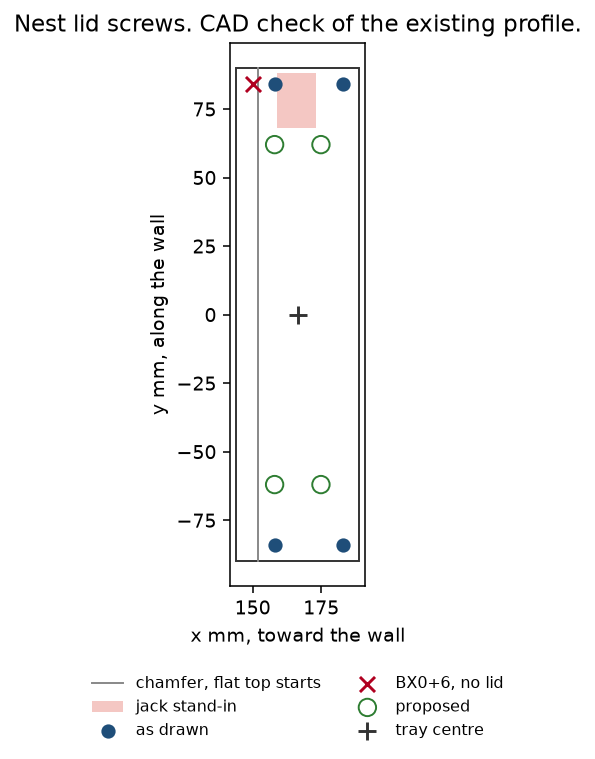
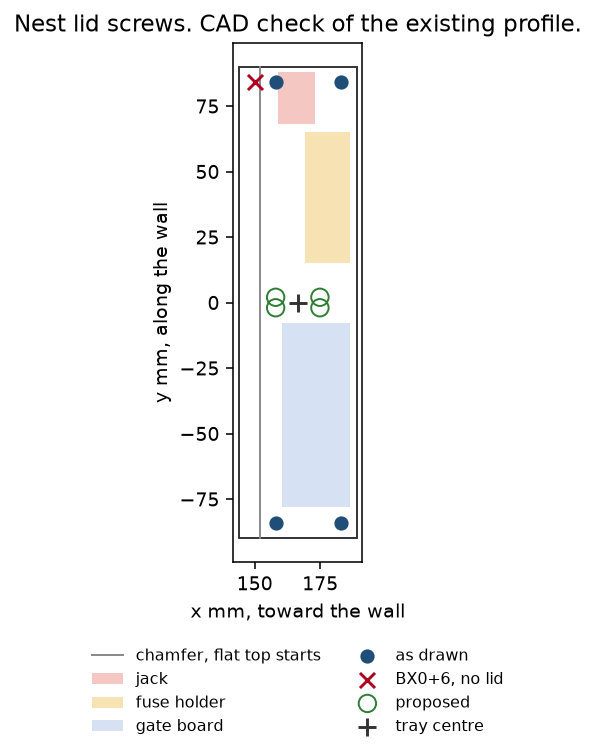
Move the proposed lid posts clear of every reserved nest box.
y 62 cleared the jack and entered the fuse holder and the gate board. The posts now sit at y 2 and -2, still mirrored about the tray centre, with at least 2 mm to each stand-in.

Changed region(s): [[0.1513, 0.0609, 0.7866, 0.9748], [0.484, 0.0305, 0.5748, 0.0609], [0.3933, 0.0305, 0.4538, 0.0609]]

diff --git a/altaay_lab/cad/fasteners/lid_check.py b/altaay_lab/cad/fasteners/lid_check.py
@@ -74,16 +74,45 @@ def engage(length, bore):
             "meets_4_5": (not bottoms) and used + 1e-9 >= RULE, "label": "calc"}
 
 
+POST_R = 4.0          # lid post diameter 8 mm, already in rim_parts()
+GAP = 2.0              # same gap used for the jack; applied to every stand-in
+
+
+def box_of(item):
+    c = np.array(item["c"], float)
+    h = np.array(item["size"], float) / 2.0
+    return c - h, c + h
+
+
+def xy_gap(x, y, lo, hi, radius):
+    """Gap from a vertical cylinder to an axis-aligned box. Negative means it enters the box.
+    The lid posts run through the z of every stand-in, so the xy gap is the clearance."""
+    cx = min(max(x, lo[0]), hi[0])
+    cy = min(max(y, lo[1]), hi[1])
+    return float(np.hypot(x - cx, y - cy) - radius)
+
+
+def standin_gaps(posts):
+    rows = []
+    for name, item in P.STANDINS.items():
+        lo, hi = box_of(item)
+        for x, y in posts:
+            rows.append({"standin": name, "post_xy": [round(x, 2), round(y, 2)],
+                         "gap_mm": round(xy_gap(x, y, lo, hi, POST_R), 2), "label": "cad"})
+    return rows
+
+
 def main():
     lid, z_split = profile()
     cx = tray_centre()
     room = P.BX0 + 14.0
     wall = 2 * cx - room
-    # The jack stand-in already in nest_parts.STANDINS occupies y 68 to 88 on the +y end.
-    # A post of radius 4 at y 84 enters that box. y = 68 - 4 - 2 keeps a 2 mm gap.
-    jack = P.STANDINS["jack"]
-    jack_lo_y = jack["c"][1] - jack["size"][1] / 2.0
-    post_y = round(jack_lo_y - 4.0 - 2.0, 2)
+    # Fuse, gate, and jack already fill the ends. The only y that clears every
+    # stand-in on both sides, with a 2 mm gap and a 4 mm post, is a short pair
+    # about the tray centre. The gate's top is the tight edge.
+    gate = P.STANDINS["gate_board"]
+    _, gate_hi = box_of(gate)
+    post_y = round(float(-gate_hi[1] - POST_R - GAP), 2)
     posts = [(room, post_y), (room, -post_y), (wall, post_y), (wall, -post_y)]
     rejected = P.BX0 + 6.0
     rows = []
@@ -119,7 +148,9 @@ def main():
         "mirror_error_about_tray_centre_mm": round(float(worst), 2),
         "nearest_terminal_mm": round(float(term_gap), 2),
         "post_y_mm": post_y,
-        "why_y": "jack stand-in y starts at %.2f; post radius 4 mm; 2 mm gap; same number both sides so the pattern still mirrors" % jack_lo_y,
+        "why_y": "gate stand-in reaches y %.2f; post radius 4 mm; 2 mm gap; fuse and jack are farther out, so this y clears all three" % gate_hi[1],
+        "standin_gaps": standin_gaps(posts),
+        "drawn_standin_gaps": standin_gaps(list(P.LID_POSTS)),
         "engagement": {
             "M3x6_bore_5.8": engage(6.0, BORE_NOW),
             "M3x6_deeper_bore_6.3": engage(6.0, 6.3),
@@ -137,11 +168,11 @@ def main():
         },
     }
     json.dump(out, open(os.path.join(HERE, "lid_check.json"), "w"), indent=1)
-    write_fig(out, jack)
-    print(json.dumps({k: out[k] for k in ("proposed_posts_xy", "mirror_error_about_tray_centre_mm", "nearest_terminal_mm", "post_y_mm", "engagement")}, indent=1))
+    write_fig(out)
+    print(json.dumps({k: out[k] for k in ("proposed_posts_xy", "mirror_error_about_tray_centre_mm", "nearest_terminal_mm", "post_y_mm", "standin_gaps")}, indent=1))
 
 
-def write_fig(out, jack):
+def write_fig(out):
     import matplotlib
     matplotlib.use("Agg")
     import matplotlib.pyplot as plt
@@ -152,9 +183,11 @@ def write_fig(out, jack):
     ax.add_patch(plt.Rectangle((x0, y0), x1 - x0, y1 - y0, fill=False, lw=1.0, color="#333"))
     flat = out["chamfer_flat_starts_x_mm"]
     ax.plot([flat, flat], [y0, y1], color="#888", lw=1, label="chamfer, flat top starts")
-    lo = np.array(jack["c"]) - np.array(jack["size"]) / 2
-    ax.add_patch(plt.Rectangle((lo[0], lo[1]), jack["size"][0], jack["size"][1],
-                               fill=True, color="#f4c7c3", lw=0, label="jack stand-in"))
+    colors = {"jack": "#f4c7c3", "fuse_holder": "#f6e2b3", "gate_board": "#d6e2f4"}
+    for name, item in P.STANDINS.items():
+        lo, hi = box_of(item)
+        ax.add_patch(plt.Rectangle((lo[0], lo[1]), hi[0] - lo[0], hi[1] - lo[1],
+                                   fill=True, color=colors.get(name, "#ddd"), lw=0, label=name.replace("_", " "), zorder=1))
     drawn = np.array(P.LID_POSTS)
     prop = np.array(out["proposed_posts_xy"])
     ax.scatter(drawn[:, 0], drawn[:, 1], c="#1f4e79", s=40, zorder=3, label="as drawn")

diff --git a/altaay_lab/cad/fasteners/PROPOSED_EDITS.md b/altaay_lab/cad/fasteners/PROPOSED_EDITS.md
@@ -12,13 +12,15 @@ Keep the room-side x at `BX0 + 14` (158.0 mm). Lid thickness there is 2.0 mm, an
 
 Set the wall-side x to 174.9 mm, which is the mirror of 158.0 about the tray centre 166.45. Mirror error of the four posts is 0.0 mm (calc).
 
-Set y to +62 and -62, not +84. The jack stand-in already in `STANDINS` occupies y 68 to 88 and x 159 to 173. A post of radius 4 mm at y 84 and x 158 enters that box by 3.0 mm (cad). y 62 leaves about 2 mm (cad). Both sides use the same y so the pattern still mirrors.
+y is +2 and -2, not +84 and not +62. The jack, the fuse holder, and the gate board are already reserved in `STANDINS`. A post of radius 4 mm at (174.9, 62) enters the fuse holder, and the posts at y -62 enter the gate board (cad, the Codex note on this proposal). The gate board reaches y -8. With a 4 mm radius and a 2 mm gap, the post centres sit at y ±2. Every stand-in gap is then at least 2.0 mm (cad). The tight one is the gate board at (174.9, -2).
+
+Do not copy the 5.5 mm end-wall tie from `rim_parts()` onto these posts. That tie runs toward the end and would close the 2 mm gate gap. The post cylinder already in that function is the boss.
 
 Proposed `LID_POSTS`, for the nest owner to apply and then regenerate with the existing script:
 
-`LID_POSTS = [(BX0 + 14.0, 62.0), (BX0 + 14.0, -62.0), (174.9, 62.0), (174.9, -62.0)]`
+`LID_POSTS = [(BX0 + 14.0, 2.0), (BX0 + 14.0, -2.0), (174.9, 2.0), (174.9, -2.0)]`
 
-174.9 is `2 * ((BX0 + BX1) / 2) - (BX0 + 14)`. Writing it that way keeps it tied to the box constants. Nearest terminal after this move is 37.22 mm (calc).
+174.9 is `2 * ((BX0 + BX1) / 2) - (BX0 + 14)`. Writing it that way keeps it tied to the box constants. Nearest terminal centre is 23.35 mm away (calc). The terminal post radius is 4.5 mm, so the surfaces are about 14.8 mm apart (calc).
 
 ## Engagement
 

diff --git a/altaay_lab/cad/fasteners/CHECKS.md b/altaay_lab/cad/fasteners/CHECKS.md
@@ -77,7 +77,7 @@ DC2, DC3 and DC4 are the chest-dock leads `NEST_CAD.md` already removes. F027, F
 
 ## Nest lid proposal (not applied)
 
-`lid_check.py` reads the existing `box_profile`. BX0+6 has 0.0 mm of lid (cad). The room-side axes stay at x 158, where the lid is 2.0 mm thick and the button head has 3.15 mm of flat top inboard of the chamfer. The wall-side axes move to x 174.9, the mirror about the tray centre (mirror error 0.0 mm, calc). y moves from 84 to 62 so a 4 mm radius post clears the jack stand-in already in `nest_parts.py` by about 2 mm (cad). The drawn post at (158, 84) enters that stand-in by 3.0 mm. Nearest terminal after the move is 37.22 mm (calc).
+`lid_check.py` reads the existing `box_profile` and every box in `STANDINS`. BX0+6 has 0.0 mm of lid (cad). The room-side axes stay at x 158, where the lid is 2.0 mm thick and the button head has 3.15 mm of flat top inboard of the chamfer. The wall-side axes move to x 174.9, the mirror about the tray centre (mirror error 0.0 mm, calc). y is ±2, not ±62. At y 62 the wall-side post enters the fuse holder and the minus posts enter the gate board (cad). At y ±2 the gap to every stand-in is at least 2.0 mm (cad). The tight one is the gate board. The 5.5 mm end-wall tie is not part of this proposal. Nearest terminal centre is 23.35 mm (calc).
 
 A longer insert does not raise engagement: the M3x6 only reaches 4.0 mm, and the insert is already 5.7 mm (calc). A deeper bore with the same M3x6 is still 4.0 mm. M3x8 (BOM 17a, already on the bill) into a bore deepened from 5.8 mm to 6.3 mm engages 5.7 mm and stays 0.3 mm off the floor (calc). The socket head is 1.35 mm taller than the button. The published 2.85 mm over the button heads would leave 1.50 mm (calc, that 2.85 mm was not re-measured). Detail is `PROPOSED_EDITS.md`. The nest STL is not regenerated.
 

diff --git a/altaay_lab/cad/fasteners/README.md b/altaay_lab/cad/fasteners/README.md
@@ -35,7 +35,7 @@ Labels: **cad** is a measurement on a mesh or on `fasteners.json`. **calc** is a
 
 `BUILD_ORDER.md` now uses M2x12 for F127 and F129, M2x5 for F344 and F347, drops the 12 left-out screws from the drive counts, and adds F356 to F361. A re-run finds no missing fitted screw and no length mismatch (cad).
 
-The nest lid change is a proposal, not applied (`PROPOSED_EDITS.md`). BX0+6 has 0.0 mm of lid (cad). Proposed posts are (158, 62), (158, -62), (174.9, 62), (174.9, -62). Mirror error 0.0 mm (calc). A longer insert does not raise the 4.0 mm engagement. M3x8 into a bore deepened to 6.3 mm engages 5.7 mm and stays 0.3 mm off the floor (calc), using BOM 17a and BOM 16.
+The nest lid change is a proposal, not applied (`PROPOSED_EDITS.md`). BX0+6 has 0.0 mm of lid (cad). Proposed posts are (158, 2), (158, -2), (174.9, 2), (174.9, -2). Mirror error 0.0 mm (calc). The gap to the jack, the fuse holder, and the gate board is at least 2.0 mm (cad). A longer insert does not raise the 4.0 mm engagement. M3x8 into a bore deepened to 6.3 mm engages 5.7 mm and stays 0.3 mm off the floor (calc), using BOM 17a and BOM 16.
 
 Wire gaps now use cable segments and finite cylinders (cad). F249 clears D3 by 0.13 mm. F027 overlaps P1 by 0.90 mm. No wire was moved.
 

diff --git a/altaay_lab/history/2026-11-12_1821_lid_posts_standins.md b/altaay_lab/history/2026-11-12_1821_lid_posts_standins.md
@@ -1,0 +1,5 @@
+# 2026-11-12 6:21 PM ET: lid posts checked against every nest box
+
+The y ±62 posts cleared the jack and entered the fuse holder and the gate board (cad). Those boxes are already in `nest_parts.py`. The proposal now puts the four posts at (158, ±2) and (174.9, ±2). Mirror error 0.0 mm (calc). The smallest gap to a stand-in is 2.0 mm, at the gate board (cad). The end-wall tie is not part of the proposal. The nest STL is still not edited. Nothing bought.
+
+Topology STLs and the chest hole stay open.
